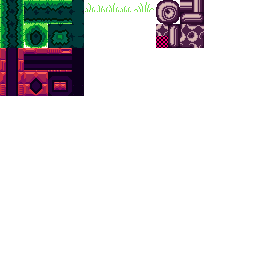
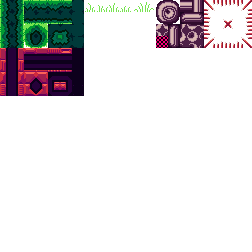
Spikes and spike collisions.

Changed region(s): [[0.0, 0.0, 1.0, 0.3889], [0.8889, 0.0833, 0.9167, 0.1111], [0.0, 0.2222, 0.0278, 0.25]]

diff --git a/src/game/states/world/tile_map.cpp b/src/game/states/world/tile_map.cpp
@@ -16,11 +16,13 @@ namespace States::Details::World
 
     static const std::vector<TileMap::TileInfo> tile_list
     {
-        { "moss_stone"   , TileMap::solid    , TileMap::fancy , 0}, // 0
-        { "grass_cover"  , TileMap::nonsolid , TileMap::cover , 0}, // 1
-        { "purple_metal" , TileMap::solid    , TileMap::fancy , 1}, // 2
-        { "purple_pipe"  , TileMap::solid    , TileMap::pipe  , 0}, // 3
-        { "purple_pipe_" , TileMap::solid    , TileMap::pipe  , 0}, // 4
+        // Name            Hitbox               Solid Kills   RenderMode  TileIndex
+        { "moss_stone"   , TileMap::hitbox_block , 1 , 0 , TileMap::fancy , 0}, // 0
+        { "grass_cover"  , TileMap::hitbox_cover , 0 , 0 , TileMap::flat  , 0}, // 1
+        { "purple_metal" , TileMap::hitbox_block , 1 , 0 , TileMap::fancy , 1}, // 2
+        { "purple_pipe"  , TileMap::hitbox_block , 1 , 0 , TileMap::pipe  , 0}, // 3
+        { "purple_pipe"  , TileMap::hitbox_block , 1 , 0 , TileMap::pipe  , 0}, // 4
+        { "purple_spike" , TileMap::hitbox_cover , 0 , 1 , TileMap::cover , 0}, // 5
     };
 
     const TileMap::TileInfo &TileMap::GetTileInfo(int index)
@@ -145,6 +147,50 @@ namespace States::Details::World
                     }
                 });
             }
+
+            { // Generate tile hitboxes
+                hitboxes.resize(size.prod());
+
+                for (int y = 0; y < size.y; y++)
+                for (int x = 0; x < size.x; x++)
+                {
+                    int index = ClampGet(ivec2(x,y)).mid;
+                    if (index == -1)
+                        continue;
+
+                    const TileInfo &info = GetTileInfo(index);
+
+                    switch (info.hitbox)
+                    {
+                      case hitbox_block:
+                        // Nothing.
+                        break;
+
+                      case hitbox_cover:
+                        {
+                            int &mask = hitboxes[x + size.x * y];
+
+                            int adj_same = 0, adj_solid = 0;
+                            for (int i = 0; i < 4; i++)
+                            {
+                                int other = ClampGet(ivec2(x,y) + ivec2(1,0).rot90(i)).mid;
+
+                                adj_same <<= 1;
+                                adj_same |= other == index;
+
+                                adj_solid <<= 1;
+                                adj_solid |= other != -1 && TileMap::GetTileInfo(other).solid;
+                            }
+
+                            if (adj_same & (adj_same + 1)) // If at least two bits are set...
+                                mask = adj_solid;
+                            else
+                                mask = adj_solid & (adj_same & 0b1010 ? 0b01010 : 0b1010);
+                        }
+                        break;
+                    }
+                }
+            }
         }
         catch (std::exception &e)
         {
@@ -205,7 +251,7 @@ namespace States::Details::World
                     render.iquad(pixel_pos, ivec2(tile_size)).tex(img_tiles.pos + tile_state.add_y(info.image_index * 4) * tile_size);
                 }
                 break;
-              case cover:
+              case flat:
                 {
                     bool merge_left = ClampGet(base_tile + ivec2(x-1,y)).*layer == index;
                     bool merge_right = ClampGet(base_tile + ivec2(x+1,y)).*layer == index;
@@ -222,9 +268,7 @@ namespace States::Details::World
                     int mask = 0;
                     for (int i = 0; i < 4; i++)
                     {
-                        // Offsets (4): (1,0), (0,1), (-1,0), (0,-1).
-                        ivec2 offset((i == 0) - (i == 2), (i == 1) - (i == 3));
-                        bool should_merge = ClampGet(base_tile + ivec2(x,y) + offset).*layer == index;
+                        bool should_merge = ClampGet(base_tile + ivec2(x,y) + ivec2(1,0).rot90(i)).*layer == index;
                         mask <<= 1;
                         mask |= should_merge;
                     }
@@ -254,7 +298,44 @@ namespace States::Details::World
                     render.iquad(pixel_pos, ivec2(tile_size)).tex(img_tiles.pos + (tile_state + ivec2(13, info.image_index * 4)) * tile_size);
                 }
                 break;
+              case cover:
+                {
+                    int adj_same = 0, adj_solid = 0;
+                    for (int i = 0; i < 8; i++)
+                    {
+                        // Offsets (8): (1,0), (1,1), (0,1), (-1,1), ..., (1,-1).
+                        ivec2 offset(1 - (i >= 2) - (i >= 3) + (i >= 6) + (i >= 7), (i >= 1) - (i >= 4) - (i >= 5));
+                        int other = ClampGet(base_tile + ivec2(x,y) + offset).*layer;
+
+                        adj_same <<= 1;
+                        adj_same |= other == index;
+
+                        adj_solid <<= 1;
+                        adj_solid |= other != -1 && world.map.GetTileInfo(other).solid;
+                    }
+
+                    ivec2 tile_state;
+
+                         if ((adj_same & 0b10100000) == 0b10100000) tile_state = (adj_solid & 0b01000000 ? ivec2(1,1) : ivec2(0,0)); // .-
+                    else if ((adj_same & 0b00101000) == 0b00101000) tile_state = (adj_solid & 0b00010000 ? ivec2(2,1) : ivec2(3,0)); // -.
+                    else if ((adj_same & 0b00001010) == 0b00001010) tile_state = (adj_solid & 0b00000100 ? ivec2(2,2) : ivec2(3,3)); // -'
+                    else if ((adj_same & 0b10000010) == 0b10000010) tile_state = (adj_solid & 0b00000001 ? ivec2(1,2) : ivec2(0,3)); // '-
+                    else if (adj_same & 0b00100010) tile_state = ivec2(adj_solid & 0b00001000 ? 0 : 3, 1 + r % 2);
+                    else                            tile_state = ivec2(1 + r % 2, adj_solid & 0b00000010 ? 0 : 3);
+
+                    render.iquad(pixel_pos, ivec2(tile_size)).tex(img_tiles.pos + (tile_state + ivec2(17, info.image_index * 4)) * tile_size);
+                }
+                break;
             }
         }
+    }
+
+    void TileMap::SetColorMatrix() const
+    {
+        render.SetColorMatrix(fmat4::scale(GetExtra().light));
+    }
+    void TileMap::ResetColorMatrix() const
+    {
+        render.SetColorMatrix(fmat4());
     }
 }

diff --git a/src/game/states/world/tile_map.h b/src/game/states/world/tile_map.h
@@ -16,14 +16,19 @@ namespace States::Details::World
     class TileMap
     {
       public:
-        enum Solidity {solid, nonsolid};
-        enum TileDrawMode {invis, fancy, cover, pipe};
+        enum TileInfoHitbox
+        {
+            hitbox_block, // Hitbox mask no effect.
+            hitbox_cover, // 4 lowest bits of hitbox mask determine if 4 strips of size `tile_size * cover_hitbox_width` along tile sides are a part of the hitbox. (3 - right, 2 - down, 1 - left, 0 - up)
+        };
+        enum TileInfoDrawMode {invis, fancy, flat, pipe, cover};
 
         struct TileInfo
         {
             std::string name;
-            Solidity solidity;
-            TileDrawMode draw_mode = invis;
+            TileInfoHitbox hitbox = hitbox_block;
+            bool solid = 0, kills = 0;
+            TileInfoDrawMode draw_mode = invis;
             int image_index = 0;
         };
 
@@ -36,6 +41,7 @@ namespace States::Details::World
         };
 
         static constexpr int tile_size = 12;
+        static constexpr int cover_hitbox_width = 3; // This affects spikes and other flat tiles.
 
         struct ExtraData
         {
@@ -50,6 +56,8 @@ namespace States::Details::World
         ivec2 size = ivec2(0);
         std::vector<TileStack> tiles;
         std::vector<int> random_values;
+        std::vector<int> collision_masks;
+        std::vector<int> hitboxes; // Meaning of those integer depends on `TileInfo::hitbox`.
         ExtraData extra_data;
 
         using points_t = std::vector<ivec2>;
@@ -121,12 +129,64 @@ namespace States::Details::World
             return UnsafeAt(pos);
         }
 
+        bool PixelCollidesWithTileHitbox(TileInfoHitbox hitbox_type, int hitbox_mask, ivec2 pixel_pos) const // `pixel_pos` is relative to the tile.
+        {
+            switch (hitbox_type)
+            {
+              case hitbox_block:
+                return 1;
+                break;
+
+              case hitbox_cover:
+                {
+                    if (hitbox_mask & 0b1000 && pixel_pos.x >= tile_size - cover_hitbox_width)
+                        return 1;
+                    if (hitbox_mask & 0b0100 && pixel_pos.y >= tile_size - cover_hitbox_width)
+                        return 1;
+                    if (hitbox_mask & 0b0010 && pixel_pos.x < cover_hitbox_width)
+                        return 1;
+                    if (hitbox_mask & 0b0001 && pixel_pos.y < cover_hitbox_width)
+                        return 1;
+
+                    return 0;
+                }
+                break;
+            }
+
+            return 0;
+        }
+
         bool SolidAtPixel(ivec2 pos) const
         {
-            int index = ClampGet(div_ex(pos, tile_size)).mid;
+            ivec2 tile_pos = div_ex(pos, tile_size);
+
+            int index = ClampGet(tile_pos).mid;
             if (index == -1)
                 return 0;
-            return GetTileInfo(index).solidity == solid;
+
+            const TileInfo &info = GetTileInfo(index);
+            if (!info.solid)
+                return 0;
+
+            return PixelCollidesWithTileHitbox(info.hitbox, hitboxes[tile_pos.x + tile_pos.y * size.x], mod_ex(pos, tile_size));
         }
+
+        bool DangerAtPixel(ivec2 pos) const
+        {
+            ivec2 tile_pos = div_ex(pos, tile_size);
+
+            int index = ClampGet(tile_pos).mid;
+            if (index == -1)
+                return 0;
+
+            const TileInfo &info = GetTileInfo(index);
+            if (!info.kills)
+                return 0;
+
+            return PixelCollidesWithTileHitbox(info.hitbox, hitboxes[tile_pos.x + tile_pos.y * size.x], mod_ex(pos, tile_size));
+        }
+
+        void SetColorMatrix() const;
+        void ResetColorMatrix() const;
     };
 }

diff --git a/src/game/states/world/player_controller.cpp b/src/game/states/world/player_controller.cpp
@@ -231,6 +231,12 @@ namespace States::Details::World
                 }
             }
 
+            { // Check death causes
+                { // Blocks that kill on touch
+                    "Add this";
+                }
+            }
+
             { // Animation
                 if (player->ground && player->h_control != 0)
                     player->time_running++;
@@ -294,9 +300,7 @@ namespace States::Details::World
     {
         if (player)
         {
-            render.SetColorMatrix(fmat4::scale(world.map.GetExtra().light));
             render.iquad(player->pos - world.camera.Pos(), cfg.player_sprite_size).tex(img_player.pos + cfg.player_sprite_size * ivec2(player->anim_frame, player->anim_state)).center().flip_x(player->facing_left);
-            render.SetColorMatrix(fmat4());
         }
     }
 
@@ -333,6 +337,6 @@ namespace States::Details::World
     {
         if (!player)
             return 0;
-        return player_tile_hitbox.CollidesAt(world.map, player->pos + offset);
+        return player_tile_hitbox.SolidAt(world.map, player->pos + offset);
     }
 }

diff --git a/src/game/hitbox.h b/src/game/hitbox.h
@@ -34,10 +34,18 @@ namespace Hitboxes
             }
         }
 
-        bool CollidesAt(const TileMap &map, ivec2 pos) const
+        bool SolidAt(const TileMap &map, ivec2 pos) const
         {
             for (ivec2 point : points)
                 if (map.SolidAtPixel(pos + point))
+                    return 1;
+            return 0;
+        }
+
+        bool DangerAt(const TileMap &map, ivec2 pos) const
+        {
+            for (ivec2 point : points)
+                if (map.DangerAtPixel(pos + point))
                     return 1;
             return 0;
         }

diff --git a/src/game/states/world.h b/src/game/states/world.h
@@ -34,7 +34,9 @@ namespace States
             Graphics::Clear();
             map.Render(*this, &Details::World::TileMap::TileStack::back);
             map.Render(*this, &Details::World::TileMap::TileStack::mid);
+            map.SetColorMatrix();
             player_controller.Render(*this);
+            map.ResetColorMatrix();
             fade.Render();
         }
     };
